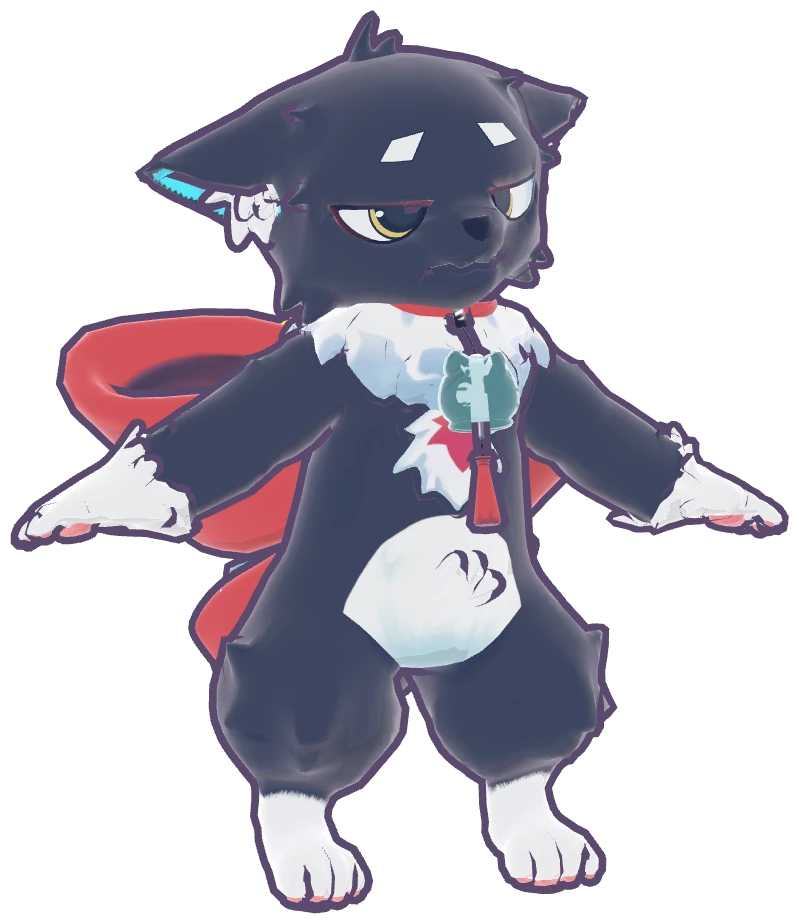
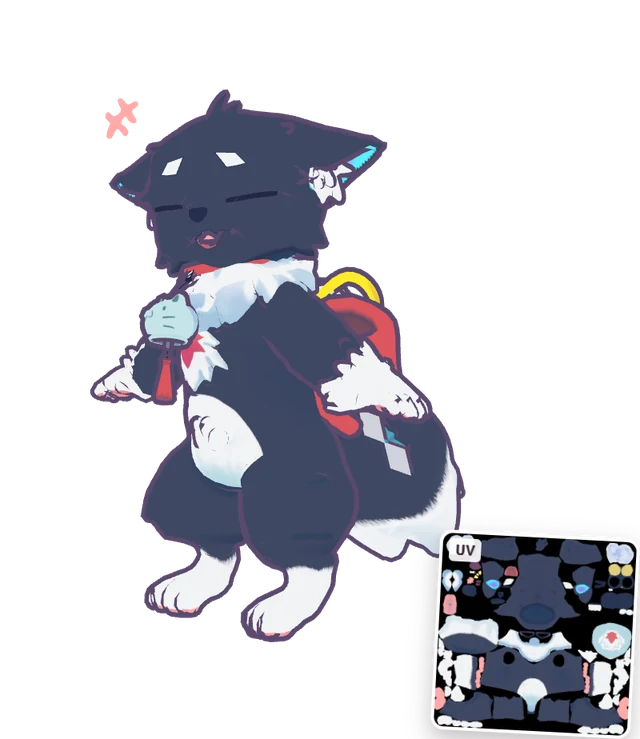
site: animated hero on the PetaNuri3D page
The hero now shows the posed しのぶ (with blend shapes) being painted from a
plain model, with the UV filling in at the same time. Visitors who prefer
reduced motion get the finished still instead.

diff --git a/petanuri/assets/css/petanuri.css b/petanuri/assets/css/petanuri.css
@@ -123,7 +123,8 @@ body.pn-body {
 .pn-hero-paint .pn-compare { border-radius: 22px; box-shadow: 0 0 0 6px #fff; }
 .pn-hero-paint figcaption { display: table; margin: 1.1rem auto 0; font-size: 0.8rem; color: var(--ink); background: #fff; padding: 0.35rem 0.9rem; border-radius: 999px; line-height: 1.6; font-weight: 700; }
 /* 開発中の公開（2026-09-30）：PV と同じしのぶの絵をしみの上に立たせる */
-.pn-hero-model { width: min(100%, 440px); }
+.pn-hero-model { width: min(100%, 460px); }
+.pn-hero-model picture { display: block; }
 .pn-hero-model img { display: block; width: auto; max-width: 100%; max-height: min(74vh, 600px); margin: 0 auto; filter: drop-shadow(0 18px 22px rgba(34, 26, 48, 0.28)); }
 .pn-status { display: inline-flex; align-items: center; gap: 0.5rem; margin-bottom: 0.9rem; padding: 0.3rem 0.95rem; border-radius: 999px; background: var(--accent-soft); color: var(--accent-dark); font-family: var(--pn-display); font-weight: 800; font-size: 0.9rem; }
 .pn-status .dot { width: 0.55rem; height: 0.55rem; border-radius: 50%; background: var(--accent); box-shadow: 0 0 0 0 rgba(238, 58, 110, 0.5); animation: pnPulse 1.8s ease-out infinite; }

diff --git a/petanuri.html b/petanuri.html
@@ -62,7 +62,10 @@
       <p class="pn-temp-note">※ 掲載している画像は、すべて開発中の仮のものです。あとで差し替えます。</p>
     </div>
     <figure class="pn-hero-paint pn-hero-model">
-      <img src="/petanuri/assets/img/hero-shinobu.webp" width="799" height="924" alt="ぺたぬり3D で描いた、ののつよシリーズの「獄門しのぶ」" fetchpriority="high">
+      <picture>
+        <source media="(prefers-reduced-motion: reduce)" srcset="/petanuri/assets/img/hero-shinobu.webp">
+        <img src="/petanuri/assets/img/hero-paint.webp" width="640" height="739" alt="ポーズと表情を付けたままの「獄門しのぶ」に、ぺたぬり3D で色を塗っていくところ。右下の UV にも同時に色が入る" fetchpriority="high">
+      </picture>
       <figcaption>画像は開発中の仮のものです</figcaption>
     </figure>
   </div>
